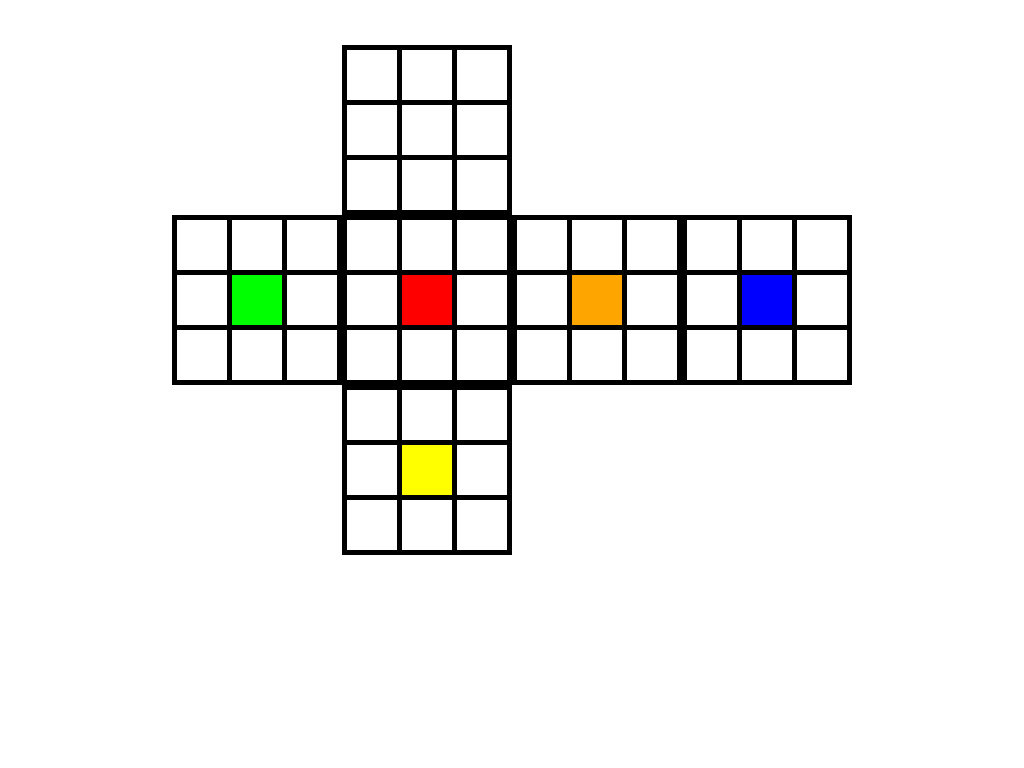
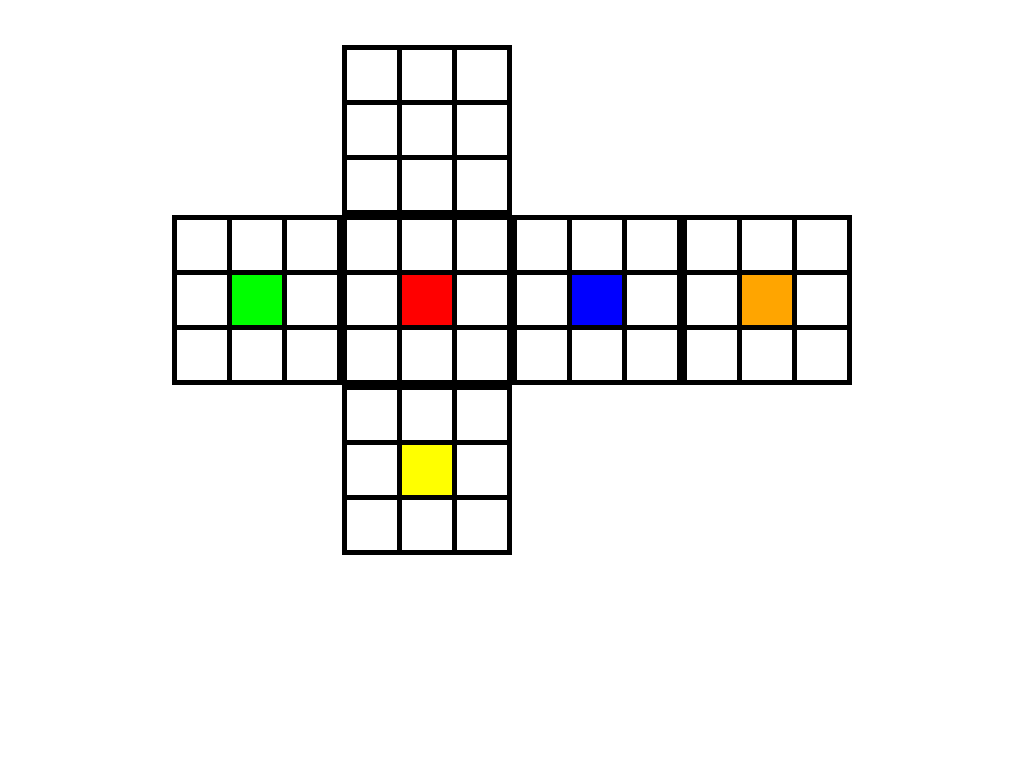
Changed Colours on cube net to be correct

Changed region(s): [[0.5312, 0.3438, 0.625, 0.4375], [0.7188, 0.3438, 0.7812, 0.4375]]

diff --git a/main_window.py b/main_window.py
@@ -54,23 +54,23 @@ class Blocks:
             Block(232, 330, 50, 50, 'Green', self.block_colours),
             Block(287, 330, 50, 50, 'Green', self.block_colours),
             # Blue Side
-            Block(517, 220, 50, 50, 'Orange', self.block_colours),
-            Block(572, 220, 50, 50, 'Orange', self.block_colours),
-            Block(627, 220, 50, 50, 'Orange', self.block_colours),
-            Block(517, 275, 50, 50, 'Orange', self.block_colours),
-            Block(627, 275, 50, 50, 'Orange', self.block_colours),
-            Block(517, 330, 50, 50, 'Orange', self.block_colours),
-            Block(572, 330, 50, 50, 'Orange', self.block_colours),
-            Block(627, 330, 50, 50, 'Orange', self.block_colours),
+            Block(517, 220, 50, 50, 'Blue', self.block_colours),
+            Block(572, 220, 50, 50, 'Blue', self.block_colours),
+            Block(627, 220, 50, 50, 'Blue', self.block_colours),
+            Block(517, 275, 50, 50, 'Blue', self.block_colours),
+            Block(627, 275, 50, 50, 'Blue', self.block_colours),
+            Block(517, 330, 50, 50, 'Blue', self.block_colours),
+            Block(572, 330, 50, 50, 'Blue', self.block_colours),
+            Block(627, 330, 50, 50, 'Blue', self.block_colours),
             # Orange Side
-            Block(687, 220, 50, 50, 'Blue', self.block_colours),
-            Block(742, 220, 50, 50, 'Blue', self.block_colours),
-            Block(797, 220, 50, 50, 'Blue', self.block_colours),
-            Block(687, 275, 50, 50, 'Blue', self.block_colours),
-            Block(797, 275, 50, 50, 'Blue', self.block_colours),
-            Block(687, 330, 50, 50, 'Blue', self.block_colours),
-            Block(742, 330, 50, 50, 'Blue', self.block_colours),
-            Block(797, 330, 50, 50, 'Blue', self.block_colours),
+            Block(687, 220, 50, 50, 'Orange', self.block_colours),
+            Block(742, 220, 50, 50, 'Orange', self.block_colours),
+            Block(797, 220, 50, 50, 'Orange', self.block_colours),
+            Block(687, 275, 50, 50, 'Orange', self.block_colours),
+            Block(797, 275, 50, 50, 'Orange', self.block_colours),
+            Block(687, 330, 50, 50, 'Orange', self.block_colours),
+            Block(742, 330, 50, 50, 'Orange', self.block_colours),
+            Block(797, 330, 50, 50, 'Orange', self.block_colours),
             # Yellow Side
             Block(347, 390, 50, 50, 'Yellow', self.block_colours),
             Block(402, 390, 50, 50, 'Yellow', self.block_colours),
